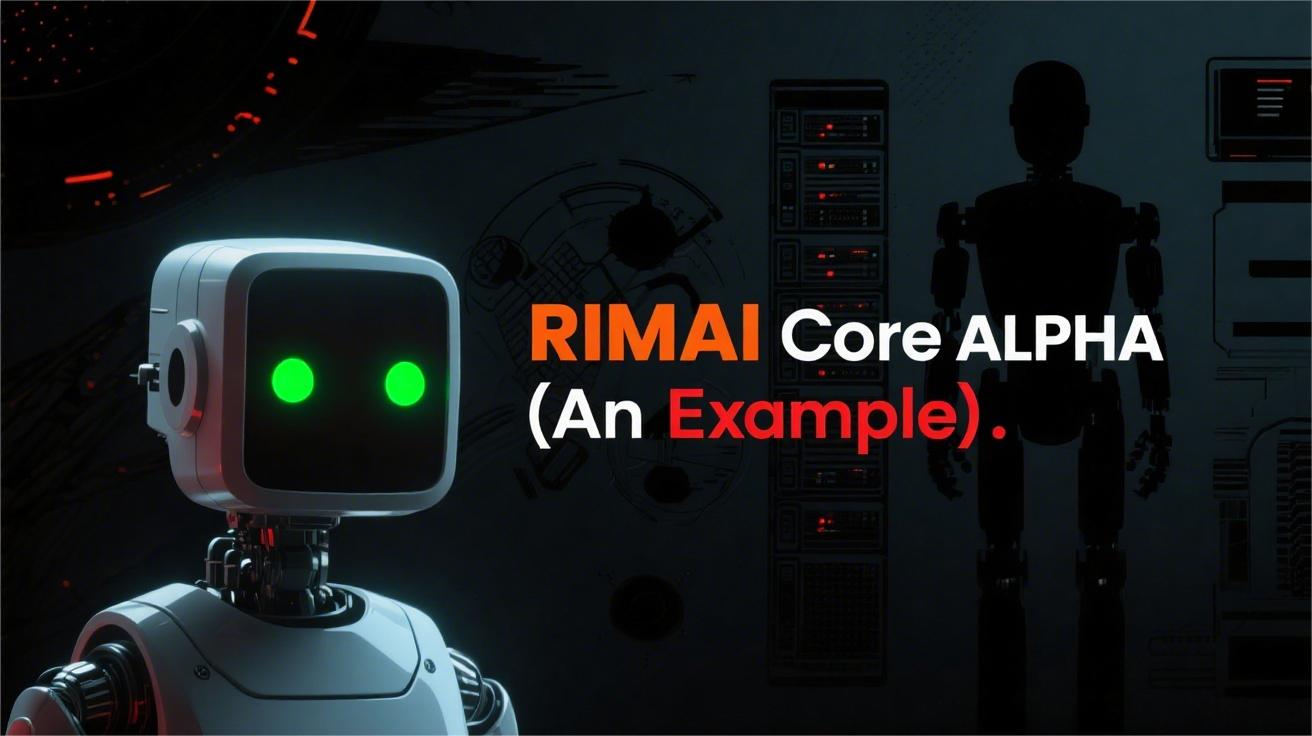
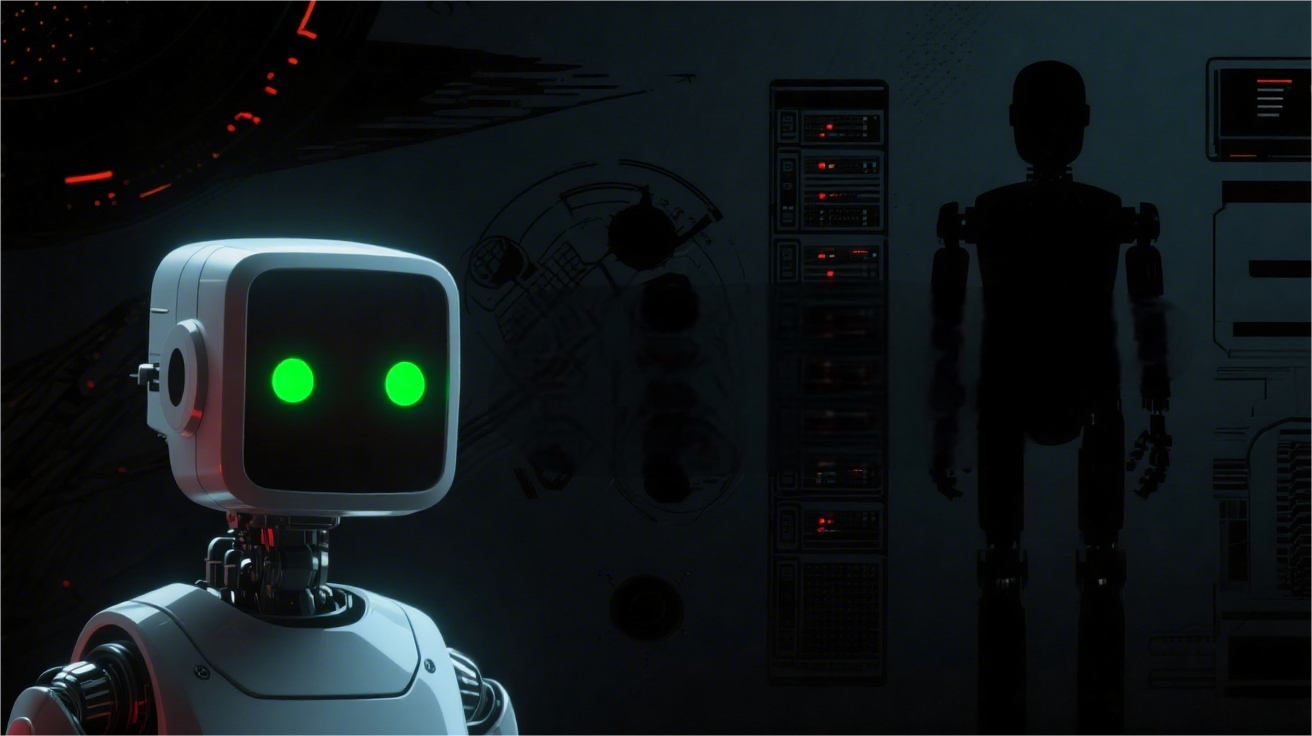
Refactor code structure for improved readability and maintainability

Changed region(s): [[0.4062, 0.375, 0.9062, 0.625]]

diff --git a/docs/steam/DESC_Steam_CN.md b/docs/steam/DESC_Steam_CN.md
@@ -1,61 +1,73 @@
-[h1]🧠 RimAI Core v4 - 殖民地管理的未来[/h1]
+[h1]🧠 RimAI Core（BETA）— 给殖民地安一颗会说话的大脑[/h1]
 
-[b]⚠ **重要说明：这是一个开源的开发者示例/演示Mod**
-这个Mod被设计为一个**综合示例**，用于展示模组开发者如何与RimAI Framework集成。它演示了AI驱动的模组开发最佳实践，并作为模组社区的学习资源。[/b]
-
-这不仅仅是一个聊天窗口。这是您殖民地的全新大脑。
+这不是技术演示，而是一套可玩的游戏内容。你将通过“AI 服务器/终端”与一个会观察环境、会斗嘴、还能办事的殖民地中枢打交道。
 
 [hr][/hr]
 
-[h1]✨ V4 版本核心特性[/h1]
-
+[h1]🎮 怎么玩？（玩法总览）[/h1]
 [list]
-[*] [b]智能 AI 人格:[/b] 与独特的 AI 人格互动，从逻辑清晰的助手到为您殖民者量身定制的独特角色。每个人格都有自己独特的理解和交流方式，由强大的底层系统提示词架构驱动。
+[*] [b]跟环境密切相关的对话[/b]
+	和终端/服务器聊天时，它会参考实时环境：季节天气、昼夜温差、用电负载、库存余量、殖民者精神与伤病、威胁动向等。它不是复读机，而是“看见”你领地的现状后再给建议。
 
-[*] [b]可扩展的工具系统:[/b] AI 不再仅仅是一个旁观者。借助全新的工具模块，AI 可以装备一个动态的“工具箱”，使其能够与游戏世界互动、读取数据，并最终代表您执行命令。
+[*] [b]有趣、值得深入探索的服务器[/b]
+	不同服务器各有性格与侧重：严肃的值班中枢、毒舌的后勤官、碎嘴的档案库……它们会抛梗、吐槽、记仇，也会在关键时刻很可靠。越聊，越能挖到小彩蛋与隐藏梗。
 
-[*] [b]强大的编排引擎:[/b] 见证一个复杂的五步推理过程。AI 现在可以接收查询，决定使用哪些工具，执行它们以收集实时游戏数据，然后形成一个全面的、具有上下文感知能力的回复。
+[*] [b]对话获取最精确的领地状况[/b]
+	直接问它：“今天电网稳吗？”“冷库够不够？”“谁在偷懒？”“最近会不会来袭？”它会用你当前领地的数据回答，而不是空话。
 
-[*] [b]安全且响应迅速:[/b] 通过专用的调度器和防腐层构建，所有 AI 与游戏的交互都是线程安全的，确保了流畅、无崩溃的游戏体验，且不会冻结您的用户界面。
+[*] [b]调用强大的服务器工具，管理你的领地[/b]
+	让服务器执行一键化“工具”：情报扫描、后勤统计、安保提示、生产建议、外交试探等（伴随冷却与前置条件）。少点面板，多点指挥感。
 
-[*] [b]分阶段开发:[/b] V4 正在增量构建中，每个阶段都交付一组稳定、可验证的功能。您将能体验到最前沿的开发成果。
+[*] [b]人格、世界观、背景故事、职务系统[/b]
+	服务器不仅有“功能”，还有“人味”：带立场的世界观、可追溯的小传记、分工明确的岗位设定，让它们的回答更像一个团队，而非工具条。
+
+[*] [b]自发的群聊与服务器间斗嘴[/b]
+	它们会自己开群聊、互相吐槽、结成同盟或拌嘴互损；你能旁听也能插话，偶尔还能从吵架里得到有用信息或意外加成。
+
+[*] [b]（开发中）AI 驱动的人物行为[/b]
+	正在打磨：让 AI 影响或驱动部分殖民者的日常决策与微行为，增加生活化细节与“自己会动”的感觉。
+
+[*] [b]多国语言的 LLM 支持[/b]
+	支持多语言对话体验（含中文、英文等）；在英文环境下默认输出英文，避免“串味”。可按你习惯自由切换。
 [/list]
 
 [hr][/hr]
 
-[h1]🚀 现在能做什么？[/h1]
-
-V4 版本尚在开发中，但其基础已经非常强大。在当前阶段，您可以：
-[list]
-[*] 与 AI 助手进行复杂的、具有上下文感知的对话。
-[*] 使用 [b]Debug Panel（调试面板）[/b] 亲手测试和见证 AI 的核心能力，从实时数据获取到工具执行。
-[*] 向 AI 提问有关您殖民地的问题，它将使用其新的 `Tooling` 系统来获取实时信息（例如，“我们殖民地的现状如何？”）。
-[*] 体验全新流式和异步架构带来的速度与响应性。
-[/list]
-
-[hr][/hr]
-
-[h1]📋 安装与依赖[/h1]
-
-[b]⚠ 至关重要：您必须首先安装并配置 [url=https://steamcommunity.com/sharedfiles/filedetails/?id=3233516574]RIMAI FRAMEWORK[/url]！否则本 MOD 将无法工作。[/b]
-
+[h1]🧭 新手三步上手[/h1]
 [olist]
-[*] [b]安装 [url=https://steamcommunity.com/sharedfiles/filedetails/?id=3233516574]RimAI Framework[/url]。[/b] 这是硬性要求。
-[*] 安装本 Mod，RimAI Core。
-[*] 在游戏的 Mod 设置中，于 Framework 的设置菜单里配置您选择的 LLM 服务商（如 OpenAI, DeepSeek, Ollama 等）。
-[*] 在您的 Mod 列表中，确保 RimAI Core 在 Framework [b]之后[/b] 加载。
+[*] 研究与建造：先解锁并建好 AI 服务器与 AI 终端（需要供电）。
+[*] 打开对话：通过聊天窗口或靠近终端与它交流，先问问“今天该忙什么？”。
+[*] 用用工具：让服务器跑一两个工具（情报/后勤/安保），感受“一句话把事办了”的爽感。
 [/olist]
 
+[i]提示：它很健谈，但不会凭空捏造。问它与你当前领地有关的问题，效果最佳。[/i]
+
 [hr][/hr]
 
-[h1]🤝 加入我们的开发之旅[/h1]
-
-本项目完全开源并由社区驱动。我们诚邀您成为创造过程的一部分。
-
+[h1]📦 安装与前置（简版）[/h1]
 [list]
-[*] [b]在 GitHub 上贡献:[/b] [url=https://github.com/oidahdsah0/Rimworld_AI_Core]Rimworld_AI_Core[/url]
-[*] [b]报告问题:[/b] 发现 Bug？请在 GitHub issue tracker 上告诉我们。
-[*] [b]功能建议:[/b] 有很棒的想法？欢迎加入讨论！
+[*] 需要先订阅并启用 [url=https://steamcommunity.com/sharedfiles/filedetails/?id=2009463077]Harmony[/url]（放在最前）。
+[*] 需要先订阅并启用 [url=https://steamcommunity.com/sharedfiles/filedetails/?id=3233516574]RimAI Framework[/url]。
+[*] 本 Mod（RimAI Core）加载顺序在 Framework [b]之后[/b]。
+[*] 推荐加载顺序：Harmony → RimAI Framework → RimAI Core。
+[*] 进入设置，按提示选择你可用的语言与服务商即可开始游玩。
 [/list]
 
-[b]订阅此 Mod，您将不仅仅是一个用户——您是一位先驱，正在体验和塑造《边缘世界》中 AI 的未来。[/b]
+[hr][/hr]
+
+[h1]🧪 BETA 说明[/h1]
+[list]
+[*] 内容已经可玩，并将持续扩充服务器个性、群聊事件与可用工具。
+[*] 偶发的口误/错别字或“过度自信”回复仍可能出现，我们在不断打磨。
+[*] 未来更新将尽量保持存档友好；如有破档风险，会在更新日志中显著标注。
+[/list]
+
+[hr][/hr]
+
+[h1]🤝 反馈与参与[/h1]
+[list]
+[*] 问题反馈与建议：在创意工坊评论区留言，或前往 GitHub。
+[*] 源码与贡献：[url=https://github.com/oidahdsah0/Rimworld_AI_Core]Rimworld_AI_Core（GitHub）[/url]
+[/list]
+
+[b]把它当作你的“幕僚部”。你负责定方向，它负责看家护院、跑腿出招、顺便唠两句。祝你在边缘世界玩得开心。[/b]

diff --git a/docs/steam/DESC_Steam_EN.md b/docs/steam/DESC_Steam_EN.md
@@ -1,61 +1,72 @@
-[h1]🧠 RimAI Core - Alpha (Developer Example) - AI Colony Management Demo[/h1]
+[h1]🧠 RimAI Core (BETA) — Give Your Colony a Talking Brain[/h1]
 
-[b]⚠ **IMPORTANT: This is a Open Source Developer Example/Demonstration Mod**
-This mod is designed as a **comprehensive example** to showcase how modders can integrate with the RimAI Framework. It demonstrates best practices for AI-powered mod development and serves as a learning resource for the modding community. [/b]
-
-Github (Open Source)：github.com/oidahdsah0/Rimworld_AI_Core
+This is not a tech demo. It’s playable content. You’ll talk to an AI “Server/Terminal” that watches your base, jokes with other servers, and gets things done.
 
 [hr][/hr]
 
-[h1]✨ Key Features of V4[/h1]
-
+[h1]🎮 How to Play (Gameplay Overview)[/h1]
 [list]
-[*] [b]Intelligent AI Personas:[/b] Interact with distinct AI personalities, from a logical Assistant to unique characters for your colonists. Each persona has its own understanding and way of communicating, driven by a powerful, underlying system prompt architecture.
+[*] [b]Environment‑aware conversations[/b]
+	Chat with the terminal/server and it will reference live context: season and weather, day–night temps, power load, stock levels, colonist mood/health, threat trends, and more. It gives advice based on your current state.
 
-[*] [b]Extensible Tool System:[/b] The AI is no longer just a spectator. With the new Tooling module, the AI can be equipped with a dynamic "toolbox" of abilities, allowing it to interact with the game world, read data, and eventually, execute commands on your behalf.
+[*] [b]Interesting servers worth exploring[/b]
+	Each server has a distinct personality and focus: a strict duty officer, a snarky quartermaster, a chatty archive… They banter, hold grudges, but are reliable when it counts. The more you talk, the more easter eggs you’ll find.
 
-[*] [b]Robust Orchestration Engine:[/b] Witness a sophisticated, five-step reasoning process. The AI can now receive a query, decide which tools to use, execute them to gather live game data, and then formulate a comprehensive, context-aware response.
+[*] [b]Ask for the most accurate state of your colony[/b]
+	“Is the grid stable today?” “Is the freezer safe?” “Who’s slacking?” “Any raids soon?” It answers with your live data—not fluff.
 
-[*] [b]Safe & Responsive:[/b] Built with a dedicated scheduler and anti-corruption layer, all AI interactions with the game are thread-safe, ensuring a smooth, crash-free experience without freezing your UI.
+[*] [b]Call powerful server tools to manage your base[/b]
+	Trigger one‑click tools: intel scans, logistics tallies, security hints, production advice, diplomatic nudges (with cooldowns and requirements). Less panel‑clicking, more commanding.
 
-[*] [b]Phased Development:[/b] V4 is being built incrementally, with each phase delivering a stable, verifiable set of features. You are getting access to the cutting edge as it's being developed.
+[*] [b]Personas, worldview, backstories, roles[/b]
+	Servers aren’t just functions—they have attitudes, short bios, and well‑defined roles, so replies feel like a team, not a toolbar.
+
+[*] [b]Spontaneous group chats and server banter[/b]
+	They start group chats, roast each other, form alliances or squabble. You can listen in or chime in—and sometimes gain useful intel from the drama.
+
+[*] [b](In development) AI‑driven pawn behavior[/b]
+	Ongoing work to let AI influence or drive certain day‑to‑day decisions and micro‑behaviors for a more “alive” colony.
+
+[*] [b]Multilingual LLM support[/b]
+	Multiple languages supported (Chinese, English, etc.). In English environments, responses default to English to avoid mixed‑language output.
 [/list]
 
 [hr][/hr]
 
-[h1]🚀 What Can You Do Right Now?[/h1]
-
-The V4 release is a work in progress, but the foundation is already powerful. In its current state, you can:
-[list]
-[*] Engage in complex, context-aware conversations with the AI Assistant.
-[*] Use the [b]Debug Panel[/b] to test and witness the AI's core capabilities firsthand, from live data-fetching to tool execution.
-[*] Ask the AI questions about your colony, and it will use its new `Tooling` system to get live information (e.g., "What's our colony's status?").
-[*] Experience the speed and responsiveness of the new streaming and asynchronous architecture.
-[/list]
-
-[hr][/hr]
-
-[h1]📋 Installation & Dependencies[/h1]
-
-[b]⚠ CRITICAL: YOU MUST INSTALL AND CONFIGURE THE [url=https://steamcommunity.com/sharedfiles/filedetails/?id=3233516574]RIMAI FRAMEWORK[/url] FIRST! THIS MOD WILL NOT WORK WITHOUT IT.[/b]
-
+[h1]🧭 Quick Start (3 Steps)</h1]
 [olist]
-[*] [b]Install the [url=https://steamcommunity.com/sharedfiles/filedetails/?id=3233516574]RimAI Framework[/url].[/b] This is a hard requirement.
-[*] Install this mod, RimAI Core.
-[*] In the game's mod settings, configure your chosen LLM provider (OpenAI, DeepSeek, Ollama, etc.) in the Framework's settings menu.
-[*] Load RimAI Core [b]after[/b] the Framework in your mod list.
+[*] Research & build: unlock and construct AI Server + AI Terminal (requires power).
+[*] Start chatting: open the chat window or approach the terminal and ask “What should we do today?”.
+[*] Use tools: run an intel/logistics/security tool and feel the “say it, done” flow.
 [/olist]
 
+[i]Tip: It won’t invent facts. Ask about your current base for best results.[/i]
+
 [hr][/hr]
 
-[h1]🤝 Join the Development Journey[/h1]
-
-This project is fully open-source and community-driven. You are invited to be a part of its creation.
-
+[h1]� Installation & Requirements (Short)</h1]
 [list]
-[*] [b]Contribute on GitHub:[/b] [url=https://github.com/oidahdsah0/Rimworld_AI_Core]Rimworld_AI_Core[/url]
-[*] [b]Report Issues:[/b] Found a bug? Let us know on the GitHub issue tracker.
-[*] [b]Suggest Features:[/b] Have a great idea? Join the discussion!
+[*] Install and enable [url=https://steamcommunity.com/sharedfiles/filedetails/?id=2009463077]Harmony[/url] (top of load order).
+[*] Install and enable [url=https://steamcommunity.com/sharedfiles/filedetails/?id=3233516574]RimAI Framework[/url].
+[*] Load order: Harmony → RimAI Framework → RimAI Core.
+[*] In settings, choose your language and provider to start playing.
 [/list]
 
-[b]By subscribing to this mod, you are not just a user—you are a pioneer, experiencing and shaping the future of AI in RimWorld.[/b]
+[hr][/hr]
+
+[h1]🧪 BETA Notes</h1]
+[list]
+[*] Fully playable; we’ll keep expanding server personalities, group chat events, and tools.
+[*] Minor typos or “over‑confident” lines may appear; polishing is ongoing.
+[*] We aim to keep saves compatible; any risky updates will be clearly flagged.
+[/list]
+
+[hr][/hr]
+
+[h1]🤝 Feedback & Involvement</h1]
+[list]
+[*] Feedback & suggestions: comment here or visit GitHub.
+[*] Source & contributions: [url=https://github.com/oidahdsah0/Rimworld_AI_Core]Rimworld_AI_Core (GitHub)[/url]
+[/list]
+
+[b]Treat it like your “staff office”. You set direction; it guards the base, runs errands, and throws a quip or two. Have fun on the Rim.[/b]
